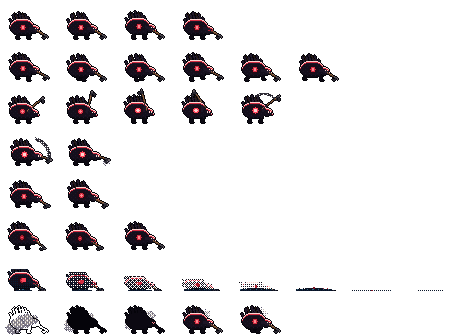
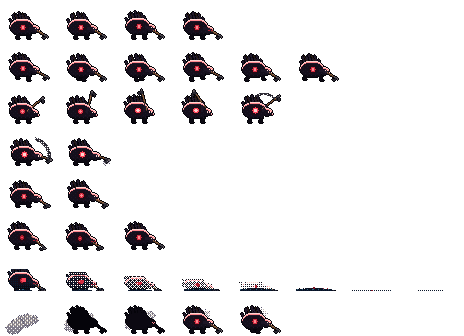
[animator] Lead-review AD: bovenrand in kleur op kern 6, opnieuw gemeten, atlas op s van de wijk (#272)
Claude-Session: https://claude.ai/code/session_01L3XQzgCATzQNpswtev634r

diff --git a/docs/art/slice/bron/genereer_vijanden.py b/docs/art/slice/bron/genereer_vijanden.py
@@ -89,7 +89,7 @@ def afwerk(c, dk, randdeel):
     boven = np.vstack([np.zeros((1, c.w), bool), randdeel[:-1]])     # de rand volgt de rug, de stekels staan erop
     top = s & ~boven & randdeel & (c.mat == MI["vijandlijf"])
     onder = np.vstack([np.zeros((1, c.w), bool), top[:-1]]) & s & ~top & (c.mat == MI["vijandlijf"])
-    c.put(onder, "vijandkern", 5 if dk else 4)
+    c.put(onder, "vijandkern", 5 if dk else 6)           # kleur: kern 6 (Lead-review AD op PR #275; was 4)
     c.put(top, "vijandkern", 7)
     cont = ndimage.binary_dilation(s) & ~s & (c.mat < 0)
     c.mat[cont] = MI["vijandlijf"]
@@ -404,8 +404,9 @@ def uit_stoom(staat, i, schot):
         s = c.solid.copy()
         c.mat[s], c.t[s] = MI["vijandlijf"], 0 if i < 2 else 1
         c.lijf[:] = False
-        if i == 0:
-            c.wis(s)
+        if i == 0:                                       # alleen stoom, zonder contour (geen beeldtaal van de echo)
+            c.mat[:] = -1
+            c.solid[:] = False
         if i == 2:
             ogen = c.rect(13, 9, 16, 11) & (c.BAY < 0.5)
             c.put(ogen & s, "vijandkern", 6, lijf=False)
@@ -913,9 +914,10 @@ def metingen(KM):
             top = masker(c, x, y, h, w, lambda q: bovenrand_van(q, 1))
             kern = masker(c, x, y, h, w, lambda q: (q.mat == MI["vijandkern"]) & (q.t >= 4) & ~bovenrand_van(q, 2))
             lijf = masker(c, x, y, h, w, lambda q: q.mat == MI["vijandlijf"])
+            cont = masker(c, x, y, h, w, lambda q: (q.mat == MI["vijandlijf"]) & (q.t == 0) & ~q.solid)
             rijen.append(dict(kamer=id_, type=typ, x=wx, wat=wat, staat=staat,
                               bovenrand=ring_dl(L, L0, m, top), kern=ring_dl(L, L0, m, kern),
-                              lijf=ring_dl(L, L0, m, lijf, 50)))
+                              lijf=ring_dl(L, L0, m, lijf, 50), contour=ring_dl(L, L0, m, cont, 50)))
     return rijen
 
 
@@ -1042,9 +1044,12 @@ def kamers_blad(KM):
     """Alle plekken uit combat §2.6 in grijs en kleur, met de vijand op zijn plek (staan/zweven)."""
     per = {}
     for (id_, typ, wx, wy, kant, wat) in PLEKKEN:
-        per.setdefault(id_, []).append((typ, wx, wy, kant))
+        sleutel = id_ if id_ != "S9" else f"S9 {'E-PAAR' if wx < 2000 else 'DWAALLICHT'}"
+        per.setdefault(sleutel, []).append((id_, typ, wx, wy, kant))
     delen = []
-    for id_, lst in per.items():
+    for naam, lst in per.items():
+        id_ = lst[0][0]
+        lst = [q[1:] for q in lst]
         rx, ry = int(B[id_]["rect"][0]), int(B[id_]["rect"][1])
         cx = int(np.mean([wx for _, wx, _, _ in lst])) - rx
         cy = int(np.mean([wy for _, _, wy, _ in lst])) - ry - 20
@@ -1059,7 +1064,7 @@ def kamers_blad(KM):
                 items.append((c, *plaats(typ, c, wx, wy, kant, id_)))
             beelden.append(scene(KM, id_, staat, items, cx, cy, w, 80))
         rij = np.concatenate([beelden[0], np.zeros((80, 4, 3)) + D1.BG, beelden[1]], 1)
-        delen.append((id_, rij))
+        delen.append((naam, rij))
     W = max(r.shape[1] for _, r in delen)
     out = []
     for id_, r in delen:
@@ -1268,10 +1273,10 @@ def main():
     D2.save(kamers_blad(KM), os.path.join(UIT_DOCS, "vijanden_in_de_kamers_x2.png"), 2)
 
     met = metingen(KM)
-    print("  ΔL* tegen de ring van 2-6 px (bible §6 regel 4, deel 1 §4.2): bovenrand p90 / kern p90 / lijf mediaan")
+    print("  ΔL* tegen de ring van 2-6 px (bible §6 regel 4, deel 1 §4.2): bovenrand p90 / kern p90 / lijf mediaan / contour mediaan")
     for r in met:
         print(f"    {r['kamer']} {r['type']:11s} x {r['x']:5.0f} {r['wat']:20s} {r['staat']:6s} "
-              f"{r['bovenrand']:5.1f} {r['kern']:5.1f} {r['lijf']:5.1f}")
+              f"{r['bovenrand']:5.1f} {r['kern']:5.1f} {r['lijf']:5.1f} {r['contour']:5.1f}")
     tm = tell_metingen(KM)
     print("  tells: ΔL* van het vlak met/zonder tell (gemiddeld) / van de gezette pixels (mediaan)")
     for r in tm:

diff --git a/docs/art/animatie-timing.md b/docs/art/animatie-timing.md
@@ -1,6 +1,6 @@
 # Animatie-timing
 
-Versie 0.2 · Eigenaar: Animator · Issues [#265](https://github.com/cesarvangerwen-glitch/echoborn/issues/265) (assetlijst S-14) en [#272](https://github.com/cesarvangerwen-glitch/echoborn/issues/272) (S-13) · Hoort bij `docs/art/bible.md` v0, `docs/art/slice-kadewijk.md` v0.5 (§4, §12) en `docs/design/gemaalmeester.md` v0.2.3
+Versie 0.2.1 · Eigenaar: Animator · Issues [#265](https://github.com/cesarvangerwen-glitch/echoborn/issues/265) (assetlijst S-14) en [#272](https://github.com/cesarvangerwen-glitch/echoborn/issues/272) (S-13) · Hoort bij `docs/art/bible.md` v0, `docs/art/slice-kadewijk.md` v0.5 (§4, §12) en `docs/design/gemaalmeester.md` v0.2.3
 
 Frames per animatie en per aanvalsfase. Tijden in **ticks** (60 per seconde, dus frames bij 60 fps). De bron van elke tijd is `game/data/vijanden/slice.csv`; de generator leest die, dus een nieuwe waarde in data geeft na een nieuwe run nieuwe tick-lijsten in het manifest. Dit document bevat de Gemaalmeester (§1) en de drie vijandtypes van de slice (§2). Spelers en echo volgen in eigen secties.
 
@@ -171,7 +171,7 @@ Werkaanname (kader §5): S1–S9 zijn maatvast (#83), dus eindkwaliteit mag (kad
 | Manifest per type: cel, offset (rechts en links), z, per animatie de frames, ticks, lus/volgt en de vlag die het frame kiest | `game/art/animatie/<type>/<type>.json` |
 | Overzichtsbladen ×2 | `docs/art/slice/eindkwaliteit/vijanden_bladen_{grijs,kleur}_x2.png` |
 | Tell-momenten op hun plek (staan, aanloop vroeg/laat, actief, stil; S3 en S7) | `vijanden_tells_x3.png` |
-| Elke plek uit combat §2.6 (S2, S3, S4, S6, S7, S8, S9), grijs en kleur | `vijanden_in_de_kamers_x2.png` |
+| Elke plek uit combat §2.6 (S2, S3, S4, S6, S7, S8, S9 met twee uitsneden: E-paar 1060/1088 en Dwaallicht 2310), grijs en kleur | `vijanden_in_de_kamers_x2.png` |
 | Leesbaarheid (luminantie en deuteranopie) | `vijanden_leesbaarheid_x2.png` |
 | GIF (grijs, de drie types naast elkaar, 4,9 s, elke 3e tick) | `vijanden_animaties.gif` |
 
@@ -201,7 +201,7 @@ Kadeloper (`kadeloper`):
 | `haak_herstel` | 2 | 10 10 | de haak ligt, wordt teruggetrokken | Phase.RECOVER (20) |
 | `stil` | 3 | 4 18 8 | schok, knik (1 px lager, ogen een streep, kern een tint zachter), terug | VJ-04 (30) |
 | `dood` | 8 | 6 × 8 | lost op in donker water: hij zakt in, wordt water, de kern dooft als laatste, de plas trekt weg | levens 0 (voorstel 48 ticks) |
-| `uit_stoom` | 5 | 6 × 5 | stoom, een donker silhouet, de ogen, dan rand en kern; de stoom zakt | add uit een spuigat (`add_inactief` 30) |
+| `uit_stoom` | 5 | 6 × 5 | frame 0 alleen stoom (geen contour: een hol silhouet is de beeldtaal van de echo, bible §6 regel 1), dan een donker silhouet, de ogen, dan rand en kern; de stoom zakt | add uit een spuigat (`add_inactief` 30) |
 
 Schotdrager (`schotdrager`): `staan`, `lopen`, `stil`, `uit_stoom` en `dood` zoals de Kadeloper, plus:
 
@@ -232,7 +232,141 @@ Tells (`*_tell_*`): `vroeg` (25 %), `laat` (75 %), beide vijandkern 4 met een ge
 
 - **Anticipation en het verste frame:** elke aanval heeft een aanloop in 4 stappen plus een uithaal van 3 ticks; het actieve frame reikt precies tot de verste rand van het vlak (haak x 28, schot x 32, duik = lichaam).
 - **Waar, niet alleen dat** (deel 1 §4.3): de pose wijst de kant en de hoogte aan (haak boven de kop naar voren, schot naar achteren, kern zwelt boven de landingsplek) en de tell ligt precies op het vlak.
-- **Bovenrand van 2 px** op de rug, de nek en de kop (en de kooi van het Dwaallicht), niet op elke stekel of rafel: zo is het één doorlopende lijn over de hele lengte (deel 1 §4.2 regel 4). De stekels zijn een tint lichter lijf.
+- **Bovenrand van 2 px** op de rug, de nek en de kop (en de kooi van het Dwaallicht), niet op elke stekel of rafel: zo is het één doorlopende lijn over de hele lengte (deel 1 §4.2 regel 4). De stekels zijn een tint lichter lijf. De lijn is vijandkern 7 met eronder kern 5 (grijs en half) of **kern 6 (kleur)**; was 4 in kleur (Lead-review AD op PR #275).
+- Vijandkleuren houden hun kleur in elke toestand; water en stoom volgen de toestand. Grijs en half = donkere wijk (rand en kern een tint feller, VJ-06), kleur = verlicht (S9). Geen amber of cyaan, geen rotatie, contour 1 px, 1 px rand per frame: **0 pixels op de rand van een cel** (gecontroleerd door de generator, 138 frames per toestand).
+
+ΔL\* tegen de ring van 2–6 px rond de figuur, op elke plek uit combat §2.6 (scène-x, D = 60). Bovenrand p90; lijf en contour mediaan. Bible §6 regel 4 vraagt in elke toestand ≥ 40 op vulling of contour; deel 1 §4.2 vraagt ≥ 50 op de bovenrand:
+
+| Kamer, plek | Grijs: bovenrand | Kleur: bovenrand / lijf / contour |
+|---|---|---|
+| S2 E-paar 880 / 908 | **81,4 / 77,4** | 39,2 / **44,0** / **47,9** · **58,9** / 24,3 / 28,2 |
+| S3 golf 1: 2140 / 2168 / 2360 | **80,2 / 79,1 / 79,1** | **69,9 / 60,1 / 62,2** |
+| S3 golf 2: Schotdrager 1770, 1798, 1990 | **79,1 / 78,7 / 80,2** | **50,2 / 58,9 / 69,8** |
+| S4 overkant 3260 | **78,5** | **52,1** |
+| S6 K-paar 4340 | **77,4** | 31,4 / **51,8** / **55,7** |
+| S6 K-paar 4382 | **78,5** | **46,2** / 37,0 / **40,9** |
+| S7 Dwaallichten 5013 / 5067 | **86,0** | **85,7** |
+| S8 adds bij de spuigaten (vóór de boss) | **82,7** | **81,7** |
+| S9 E-paar 1060 / 1088 | **80,2** | **69,9** |
+| S9 Dwaallicht 2310 | **80,2** | **69,9** |
+
+In grijs haalt de bovenrand overal ≥ 77; het donkere lijf leest daar niet (1–6), zoals deel 1 §4.2 verwacht. In kleur haalt elke plek ≥ 40 op rand, lijf of contour: S2 x 880 en S6 x 4340 op hun lijf en contour (de achtergrond is licht), S6 x 4382 op de bovenrand (46,2) en de contour (40,9). De bovenrand p90 meet de lijn in kern 7, en die is niet veranderd. De rij eronder in kern 6 maakt de rand in kleur breder en lichter.
+
+Tells: ΔL\* van het vlak met en zonder tell, gemiddeld over het vlak, en die van de gezette pixels zelf (mediaan). Sinds v0.1.1 staan vroeg en laat allebei in **vijandkern 4**. Ze verschillen alleen nog in dichtheid (25 % tegen 75 %), zodat ook de vroege stap zonder kleur leest (Lead-review AD op PR #266; was vijandkern 3, 4,8 / 3,9):
+
+| Tell | Grijs vroeg / laat / actief | Kleur vroeg / laat / actief | Gezette pixels, vroeg en laat (grijs / kleur) |
+|---|---|---|---|
+| Pompslag (fase 1 links, vóór de plint en de wand) | **7,4** / **20,0** / **31,8** | 6,5 / 17,4 / 28,6 | 41,7 / 40,7 |
+| Schoepenzwiep (links, vóór het tegenlicht van het raam) | **9,2** / **24,7** / **37,0** | 8,4 / 22,5 / 34,1 | 41,5–41,7 / 39,4–40,6 |
+
+De tell wordt in luminantie elke stap duidelijker. Elke gezette pixel van de vroege stap ligt nu ± 40 in L\* van de achtergrond. Gemiddeld over het vlak is hij zacht (7–9), want maar een kwart van de pixels is gezet: dat is het verschil met laat (17–25). Zo leest hij zonder kleur als een gestippeld vlak dat dichter wordt (`s8_gemaalmeester_leesbaarheid_x2.png`).
+
+**Punt van de CD (#247): de holle echo naast P1 bij de ketel.** P1 staat bij het schot, de echo op 6 en op 3 px (half en bijna helemaal over P1), vóór het schot en vóór de open kern:
+
+| | Rand van de echo, waar hij niet over P1 valt (p90) | Bijna-zwarte contour van de echo over P1 (mediaan) |
+|---|---:|---:|
+| grijs, schot | 55,0 | 66,5 (6 px) / 40,0 (3 px) |
+| grijs, kern | 64,4 | 66,5 / 40,0 |
+| kleur, schot | 46,3 | 66,5 / 50,2 |
+| kleur, kern | 55,1–55,7 | 66,5 / 50,2 |
+
+Alles haalt ≥ 40. Het donkere lijf en het roestschot zijn een rustige, donkere achtergrond. Daarop leest de lichte rand van de echo als tweede lichaam, en waar hij over P1 valt, scheidt zijn bijna-zwarte buitencontour hem van de crème jas. Vóór de kern schijnt het rood door de arcering: dat is de holte. Op 3 px wordt het krap in grijs (40,0, op de grens). Dat is de echo-weergave van de TA (F-07), niet de boss: zie §1.7.
+
+### 1.6 Overdracht aan de TA en de GP
+
+Het manifest (`koppeling`) zegt per signaal en vlag welke animatie loopt. Kort:
+
+1. Vervang `_build_visual`/`update_visual` (de placeholder-polygons) door `Sprite2D`'s met `region_rect` uit het manifest, `centered = false`, op de offsets en z-indexen van §1.2. Kies de toestand zoals in de wijk: in het gevecht `grijs` (s = 1).
+2. Tell en effect op `attack_box`. Kies het frame met `windup_progress(tick)` en `is_attack_active()`. Het lichaam kiest zijn aanloopframe ook op `windup_progress`, met de uithaal op de laatste 3 ticks van de aanloop.
+3. `zwiep_rechts` is `zwiep_links` gespiegeld, al uitgerekend; de plaatsing is gelijk (`attack_box.position`).
+4. Het rad tijdens `TURNING` met `ticks_draaien`; de trilframes verschuiven zelf 1 px (de code zet de jitter van de placeholder dan op 0).
+5. De `.import`-bestanden zijn gecommit (Lossless, mipmaps uit, zoals de kadewijk-art).
+
+### 1.7 Open punten
+
+- **Koppeling** (§1.6): TA met GP, daarna een SM-review (code in `game/`).
+- **De loopkat in de achtergrond van S8** (deel 5, midden boven de boss) blijft staan als het rad wegrijdt. Het rad heeft nu zijn eigen loopkat. Voorstel aan de AD: de vaste loopkat uit `s8_machinehal_midden_*` halen, of hem als "parkeerplek" laten staan.
+- **Scheuren per kant op het rad** (`s0`–`s3`) en de ketel als voortgang: besluit van de UX Designer (combat §9.2).
+- **Echo op 3 px over P1 in grijs:** ΔL\* 40,0, op de grens. Als de echo-shader er is (F-07/S-10), meet ik opnieuw. Voorstel voor de TA, zoals de AD in §9.7 van het slice-document: de bijna-zwarte buitencontour van de echo altijd 1 px laten staan, ook waar hij over P1 valt.
+- **De gedeelde echo van de finisher** (S-15) is van de TA met de AD. De boss speelt in die 120 ticks `wankel` en bij elke finisherslag `geraakt`.
+- **Audio** (T8d): de frames volgen de tels van §9.3 van combat (sissende zuiger in de aanloop, de tink, de breuk, het ratelen van het rad). De Audio Director kan de tick-lijsten uit het manifest gebruiken.
+- **Ware Deck-test** van de boss en de tells (bible §10): TA bij de eerste Deck-build.
+
+## 2. De slice-vijanden: Kadeloper, Schotdrager, Dwaallicht (S-13)
+
+Werkaanname (kader §5): S1–S9 zijn maatvast (#83), dus eindkwaliteit mag (kader §4 regel 3). Bron van de vorm: deel 1 §4 van `slice-kadewijk.md` en de concepten `concept_vijanden_*`; bron van de tijden: combat §2 en §9.1 via `slice.csv`. Ik heb **geen `.gd` en geen scènes gewijzigd**: de koppeling doen de TA en de GP (§2.5).
+
+### 2.1 Bestanden
+
+| Wat | Waar |
+|---|---|
+| Generator (deterministisch, ± 45 s, geen externe assets) | `docs/art/slice/bron/genereer_vijanden.py`: `python3 docs/art/slice/bron/genereer_vijanden.py` vanaf de repo-root. Gebruikt de helpers van de Gemaalmeester en de kamers van deel 2–5 (die hoeven niet opnieuw). |
+| Atlassen in grijs, half, kleur en index, met `.import` (formaat van de Gemaalmeester) | `game/art/animatie/<type>/<type>_{grijs,half,kleur,index}.png` en `<type>_tell_*`, `dwaallicht_duiklijn_*` |
+| Manifest per type: cel, offset (rechts en links), z, per animatie de frames, ticks, lus/volgt en de vlag die het frame kiest | `game/art/animatie/<type>/<type>.json` |
+| Overzichtsbladen ×2 | `docs/art/slice/eindkwaliteit/vijanden_bladen_{grijs,kleur}_x2.png` |
+| Tell-momenten op hun plek (staan, aanloop vroeg/laat, actief, stil; S3 en S7) | `vijanden_tells_x3.png` |
+| Elke plek uit combat §2.6 (S2, S3, S4, S6, S7, S8, S9 met twee uitsneden: E-paar 1060/1088 en Dwaallicht 2310), grijs en kleur | `vijanden_in_de_kamers_x2.png` |
+| Leesbaarheid (luminantie en deuteranopie) | `vijanden_leesbaarheid_x2.png` |
+| GIF (grijs, de drie types naast elkaar, 4,9 s, elke 3e tick) | `vijanden_animaties.gif` |
+
+### 2.2 Opbouw en plaatsing
+
+De node van een vijand staat in het midden van zijn hurtbox (`slice_enemy.gd`). Alle offsets zijn linksboven van de cel, `centered = false`, met de 1 px transparante rand van §1.4 al meegerekend.
+
+| Blad | Cel (met rand) | Offset rechts / links | Wat valt waar |
+|---|---|---|---|
+| `kadeloper`, `schotdrager` | 58 × 42 | (−23, −27) / (−35, −27) | Kijkrichting rechts getekend; links = `flip_h` met `offset_links`. De hurtbox 16 × 24 valt op kolom 15–31, rij 15–39; de vloer op rij 39. Beeld ± 30 × 26 (Schotdrager 22 breed met het schot, deel 1 §4.1) |
+| `kadeloper_tell_haak` | 22 × 18 | (−1, −1) op `_walker_box().position` | precies het vlak van 20 × 16 |
+| `schotdrager_tell_stoot` | 26 × 18 | idem | het vlak van 24 × 16 |
+| `dwaallicht` | 34 × 50 | (−17, −23), symmetrisch | hurtbox 16 × 16 op kolom 9–25, rij 15–31 |
+| `dwaallicht_tell_duik` | 18 × 18 | (−1, −1) op de landingsplek (node.x − 8, vloer − `duik_hoogte` − 16) | waar zijn lichaam na de duik is: dat is het vlak |
+| `dwaallicht_duiklijn` | 5 × 42 | (−2, −1) op (node.x, node.y + 8) | gestippelde lijn naar het vlak; `region_rect` = de bovenste (baan − duik − 16) px (in de slice 8) |
+
+### 2.3 Frames en tijden
+
+Kadeloper (`kadeloper`):
+
+| Animatie | Frames | Ticks per frame | Wat | Vlag |
+|---|---:|---|---|---|
+| `staan` | 4 | 12 (lus) | ademt, de stekels wiegen, knippert | geen beweging (VJ-05 houdt hem tegen) |
+| `lopen` | 6 | 8 (lus) | laag, kop vooruit, de haak bungelt; 48 ticks = 24 px bij 0,5 px/tick | v > 0 |
+| `haak_aanloop` | 5 | 7 7 7 6 **3** (verlicht: 10 9 9 9 **3**) | **anticipation:** de haak gaat in 4 stappen omhoog en naar achteren boven de kop, het lijf leunt weg, de ogen gaan wijd, de kern zwelt. Frame 4 = uithaal met veeglijn | `windup_progress` |
+| `haak_slag` | 2 | 3 3 | **het verste frame:** de haak op x 28 (de verste rand van het vlak), 5 px boven de vloer, lijf naar voren, veeg en stof | Phase.ACTIVE (6) |
+| `haak_herstel` | 2 | 10 10 | de haak ligt, wordt teruggetrokken | Phase.RECOVER (20) |
+| `stil` | 3 | 4 18 8 | schok, knik (1 px lager, ogen een streep, kern een tint zachter), terug | VJ-04 (30) |
+| `dood` | 8 | 6 × 8 | lost op in donker water: hij zakt in, wordt water, de kern dooft als laatste, de plas trekt weg | levens 0 (voorstel 48 ticks) |
+| `uit_stoom` | 5 | 6 × 5 | frame 0 alleen stoom (geen contour: een hol silhouet is de beeldtaal van de echo, bible §6 regel 1), dan een donker silhouet, de ogen, dan rand en kern; de stoom zakt | add uit een spuigat (`add_inactief` 30) |
+
+Schotdrager (`schotdrager`): `staan`, `lopen`, `stil`, `uit_stoom` en `dood` zoals de Kadeloper, plus:
+
+| Animatie | Frames | Ticks | Wat | Vlag |
+|---|---:|---|---|---|
+| `stoot_aanloop` | 5 | 7 7 7 6 **3** | het schot gaat in 4 stappen naar achteren tegen het lijf, het lijf duikt in; uithaal met veeglijnen achter hem | `windup_progress` |
+| `stoot_actief` | 2 | 3 3 | **het verste frame:** de voorkant van het schot op x 32 (de verste rand van het vlak van 24) | Phase.ACTIVE (6) |
+| `stoot_herstel` | 2 | 10 10 | het schot komt terug | RECOVER (20) |
+| `tink` | 1 | 4 | witte ster en witte bovenrand op het schot: dit is pantser (VJ-07) | `tink()` (TINK_TICKS 4) |
+| `breuk` | 3 | 4 4 4 | barsten met rode gloed, het schot springt in drie stukken en valt | `break_armor()` (12) |
+| `stuk` | 1 | — | de drie stukken op de vloer, zonder vijand: blijft liggen waar hij brak | losse Sprite2D op de node-positie bij de breuk |
+| `gebroken_*` | 4/6/5/2/2/3 | als hierboven | de Kadeloper met de riem en een stuk schot in de hand; hij stoot met het stuk tot x 32 (zelfde vlak) | na `break_armor()` |
+
+Dwaallicht (`dwaallicht`):
+
+| Animatie | Frames | Ticks | Wat | Vlag |
+|---|---:|---|---|---|
+| `zweven` | 6 | 8 (lus) | dobbert 1 px, de sluier wiegt | op zijn baan |
+| `aanloop` | 5 | 7 7 7 6 **3** (verlicht: 10 9 9 9 **3**) | de kern zwelt in 4 stappen, de spijlen gloeien rood mee, de sluier spreidt; frame 4: hij trekt zich 2 px op. Tegelijk `tell_duik` en de duiklijn op de landingsplek | `windup_progress` |
+| `duik` | 2 | 4 4 | **het verste frame:** kern fel, sluier en snelheidsstrepen slepen omhoog; zijn lichaam is het vlak | ACTIVE (8), de code verschuift de node |
+| `terug` | 4 | 10 × 4 | kern gedimd, sluier slap | RECOVER (40) |
+| `stil` | 6 | 5 × 6 | flakkert: de kern gaat aan en uit, de kooi rammelt 1 px | VJ-04 (30) |
+| `dood` | 8 | 6 × 8 | de kern flitst, de kooi springt in brokken uiteen en valt, alles dooft | levens 0 (voorstel 48) |
+
+Tells (`*_tell_*`): `vroeg` (25 %), `laat` (75 %), beide vijandkern 4 met een gestippelde bovenlijn, en `actief` (vol, rand in kern 7): dezelfde tell-taal als de Gemaalmeester (§1.3). De sprite ligt boven de tell (z 0 tegen 1 mag ook: in het actieve frame moet de haak of het schot op het vlak zichtbaar zijn; in de renders staat de sprite bovenop).
+
+### 2.4 Regels en metingen
+
+- **Anticipation en het verste frame:** elke aanval heeft een aanloop in 4 stappen plus een uithaal van 3 ticks; het actieve frame reikt precies tot de verste rand van het vlak (haak x 28, schot x 32, duik = lichaam).
+- **Waar, niet alleen dat** (deel 1 §4.3): de pose wijst de kant en de hoogte aan (haak boven de kop naar voren, schot naar achteren, kern zwelt boven de landingsplek) en de tell ligt precies op het vlak.
+- **Bovenrand van 2 px** op de rug, de nek en de kop (en de kooi van het Dwaallicht), niet op elke stekel of rafel: zo is het één doorlopende lijn over de hele lengte (deel 1 §4.2 regel 4). De stekels zijn een tint lichter lijf. De lijn is vijandkern 7 met eronder kern 5 (grijs en half) of **kern 6 (kleur)**; was 4 in kleur (Lead-review AD op PR #275).
 - Vijandkleuren houden hun kleur in elke toestand; water en stoom volgen de toestand. Grijs en half = donkere wijk (rand en kern een tint feller, VJ-06), kleur = verlicht (S9). Geen amber of cyaan, geen rotatie, contour 1 px, 1 px rand per frame: **0 pixels op de rand van een cel** (gecontroleerd door de generator, 138 frames per toestand).
 
 ΔL\* tegen de ring van 2–6 px rond de figuur, op elke plek uit combat §2.6 (scène-x, D = 60). Bovenrand p90; lijf mediaan; bible §6 regel 4 vraagt ≥ 40 op vulling of contour, deel 1 §4.2 ≥ 50 op de bovenrand:
@@ -253,20 +387,20 @@ In grijs, de toestand waarin S2–S8 gevochten worden, haalt de bovenrand overal
 
 Tells: ΔL\* van het vlak met en zonder tell (gemiddeld) en van de gezette pixels (mediaan), vroeg / laat / actief:
 
-| Tell, kamer | Grijs: gemiddeld | Grijs: gezette pixels | Kleur: gemiddeld |
-|---|---|---|---|
-| haak, S3 golf 2 | 11,3 / 28,3 / 45,5 | 42,2 / 38,1 / 38,3 | 6,0 / 15,1 / 26,8 |
-| stoot, S3 golf 2 | 12,2 / 32,7 / 50,3 | 46,2 | 2,1 / 4,0 / 12,6 |
-| haak, S6 | 10,8 / 28,0 / 44,4 | 41,5 / 38,1 / 42,2 | 2,7 / 3,4 / 12,2 |
-| haak, S9 (verlicht) | 10,6 / 29,9 / 48,4 | 43,2 | 8,0 / 23,1 / 39,8 |
-| duik, S7 | 12,2 / 32,7 / — | 45,1 | 12,0 / 32,1 |
-| duik, S9 (verlicht) | 11,7 / 31,9 / — | 44,8 | 9,7 / 26,4 |
+| Tell, kamer | Grijs: gemiddeld | Grijs: gezette pixels | Kleur: gemiddeld | Kleur: gezette pixels |
+|---|---|---|---|---|
+| haak, S3 golf 2 | 11,3 / 28,3 / 45,5 | 42,2 / 38,1 / 38,3 | 6,0 / 15,1 / 26,8 | 28,2 |
+| stoot, S3 golf 2 | 12,2 / 32,7 / 50,3 | 46,2 | 2,1 / 4,0 / 12,6 | 1,3 / 13,1 / 16,6 |
+| haak, S6 | 10,8 / 28,0 / 44,4 | 41,5 / 38,1 / 42,2 | 2,7 / 3,4 / 12,2 | 14,8 / 5,0 / 11,1 |
+| haak, S9 | 10,6 / 29,9 / 48,4 | 43,2 | 8,0 / 23,1 / 39,8 | 36,7 |
+| duik, S7 | 12,2 / 32,7 / — | 45,1 | 12,0 / 32,1 | 44,7 |
+| duik, S9 | 11,7 / 31,9 / — | 44,8 | 9,7 / 26,4 | 37,9 |
 
-In grijs wordt elke tell per stap duidelijker en ligt elke gezette pixel 38–46 in L\* van de achtergrond: zonder kleur een gestippeld vlak dat dichter wordt (`vijanden_leesbaarheid_x2.png`, ook bij deuteranopie: rood tegen grijs blijft een verschil in licht). In kleur is het vlak in S3 (vóór de rode luifel van kraam 1) en in S6 (vóór de lichte gevel) zwak; in S9, de enige verlichte kamer met vijanden, haalt het 23–40.
+In grijs wordt elke tell per stap duidelijker en ligt elke gezette pixel 38–46 in L\* van de achtergrond: zonder kleur een gestippeld vlak dat dichter wordt (`vijanden_leesbaarheid_x2.png`, ook bij deuteranopie: rood tegen grijs blijft een verschil in licht). In kleur is het vlak in S3 (vóór de rode luifel en de gele ramen van kraam 1) en in S6 (vóór de lichte gevel) zwak: de gezette pixels liggen daar maar 1–17 van de achtergrond. In deuteranopie is de tell in S3 kleur geel op gele ramen. In S9 en S7 haalt hij 37–45. De tell leest daar dus vooral op pose en vorm; zie §2.6.
 
 ### 2.5 Overdracht aan de TA en de GP
 
-1. Vervang `_ensure_visual`/`_update_visual` (de placeholder-polygons) door een `Sprite2D` met `region_rect` uit het manifest, op `offset` (of `offset_links` met `flip_h` als `facing < 0`). Grijs in S2–S8, kleur in S9 (zoals de wijk).
+1. Vervang `_ensure_visual`/`_update_visual` (de placeholder-polygons) door een `Sprite2D` met `region_rect` uit het manifest, op `offset` (of `offset_links` met `flip_h` als `facing < 0`). **De atlas volgt de waterstand `s` van de wijk, niet de kamer:** `grijs` bij `s < 2`, `kleur` bij `s = 2` (zoals de kamers, deel 2 §9.4). Een vijand die na trap 2 nog staat (LM-13 d), bv. een overgeslagen K-paar in S6, wisselt dus mee naar kleur. `half` is alleen voor de kleurgolf (deel 1 §2): als een shader per pixel grijs/half/kleur kiest op de afstand tot het gemaal, of als de LUT op de index draait. Vijandlijf, kern, roest, ijzer en hout zijn in half gelijk aan grijs, alleen water en stoom verschillen. Het Dwaallicht heeft geen water of stoom: zijn `half` is pixel voor pixel gelijk aan `grijs`.
 2. De tell op `_walker_box()` (lopers) of op de landingsplek (Dwaallicht), frame op `windup_progress`; `actief` op `is_attack_active()`. Het lichaam kiest zijn aanloopframe op `windup_progress`, met de uithaal op de laatste 3 ticks.
 3. De Schotdrager: na `break_armor()` `breuk`, dan de `gebroken_*`-rijen, en `stuk` als losse sprite op die plek.
 4. `dood` (48 ticks) en `uit_stoom` (30) zijn nieuw voor de code: `dood` kan na het verwijderen spelen als los effect; `uit_stoom` valt samen met `add_inactief`.
@@ -274,17 +408,17 @@ In grijs wordt elke tell per stap duidelijker en ligt elke gezette pixel 38–46
 
 ### 2.6 Open punten
 
-- **Koppeling** (§2.5): TA met GP, daarna een SM-review (code in `game/`).
-- **Duur van `dood`** (48 ticks) is een voorstel; combat §9.1 noemt geen tijd. De Combat Designer beslist of de vijand tijdens het oplossen nog in de weg staat (voorstel: nee, geen hurtbox).
-- **Kleur in S2–S8:** S6 x 4382 haalt in kleur geen 40 op rand of lijf, en de tells in kleur zijn in S3 en S6 zwak. Alleen relevant als er vijanden in een verlichte S2–S8 komen; dan stel ik de AD voor de bovenrand in kleur op kern 6 te zetten in plaats van 4.
-- **PR #270** (AD) wijzigt de generator van de kamers: na de merge meet ik opnieuw (de generator leest de kamers, dus één run).
-- **Ware Deck-test** van de tells (bible §10): TA bij de eerste Deck-build.
-- **Audio** (T8d): de tick-lijsten in de manifests zijn de tels voor het schraapgeluid, de tink, de breuk en de stijgende toon.
+- **Koppeling** (§2.5): TA met GP, daarna een SM-review (code in `game/`); de import- en CI-controle moet nog draaien.
+- **`dood` 48 ticks:** vanuit art akkoord (AD); duur en hurtbox tijdens het oplossen beslist de Combat Designer.
+- **Tells in kleur in S3 en S6:** gezette pixels 1–17 van de achtergrond; de tell leest daar op pose en vorm. Ware Deck-test met de TA (bible §10).
+- **#270** raakt alleen S8: wie als tweede merget, draait `genereer_vijanden.py` opnieuw.
+- **Audio** (T8d): de tick-lijsten in de manifests zijn de tels voor schraapgeluid, tink, breuk en de stijgende toon.
 
 ## 3. Wijzigingen
 
 | Versie | Wat |
 |---|---|
+| 0.2.1 | Lead-review AD op PR #275: de bovenrand in kleur op kern 6, opnieuw gemeten met de contour erbij (S6 x 4382: 46,2 / 40,9). De atlas volgt `s` van de wijk, wanneer `half` geldt, `uit_stoom` frame 0 zonder contour, S9 in twee uitsneden en de tells in kleur in de tabel. |
 | 0.2 | §2: de slice-vijanden Kadeloper, Schotdrager en Dwaallicht op eindkwaliteit (S-13), [#272](https://github.com/cesarvangerwen-glitch/echoborn/issues/272). |
 | 0.1.1 | Lead-review AD op PR #266: de vroege tell in vijandkern 4 (verschil met laat alleen in dichtheid), opnieuw gemeten (§1.5); de eis van 1 px transparante rand per frame voor de echo-contour van de TA (#267), in de generator en in §1.2 en §1.4. |
 | 0.1 | Eerste versie: de Gemaalmeester (S-14), [#265](https://github.com/cesarvangerwen-glitch/echoborn/issues/265). |
